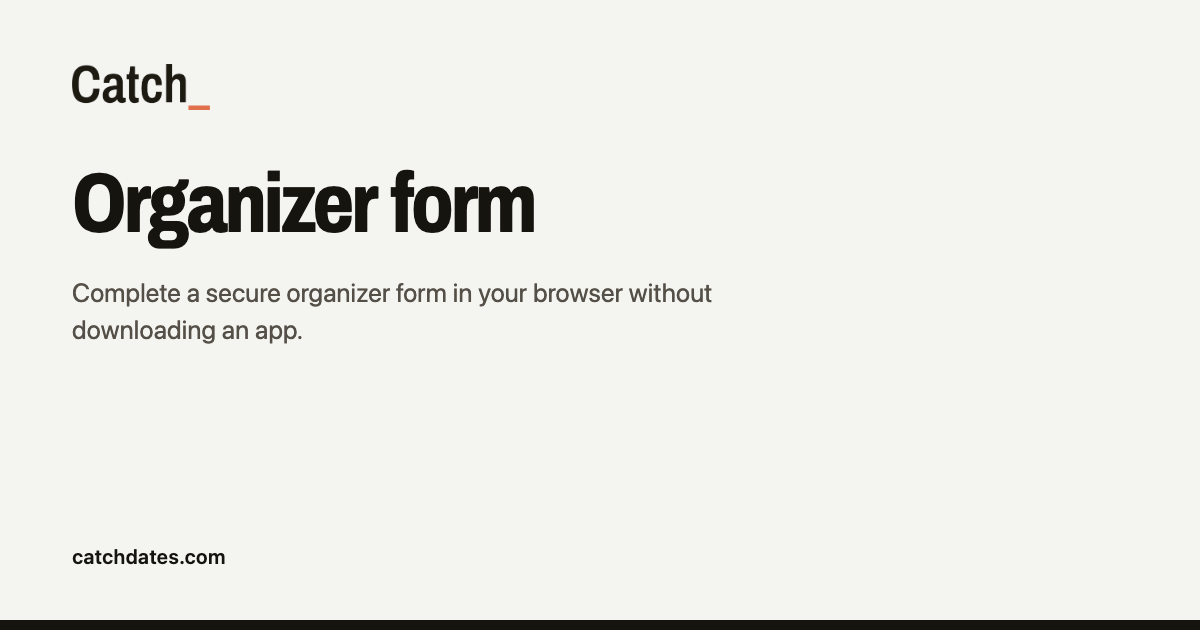
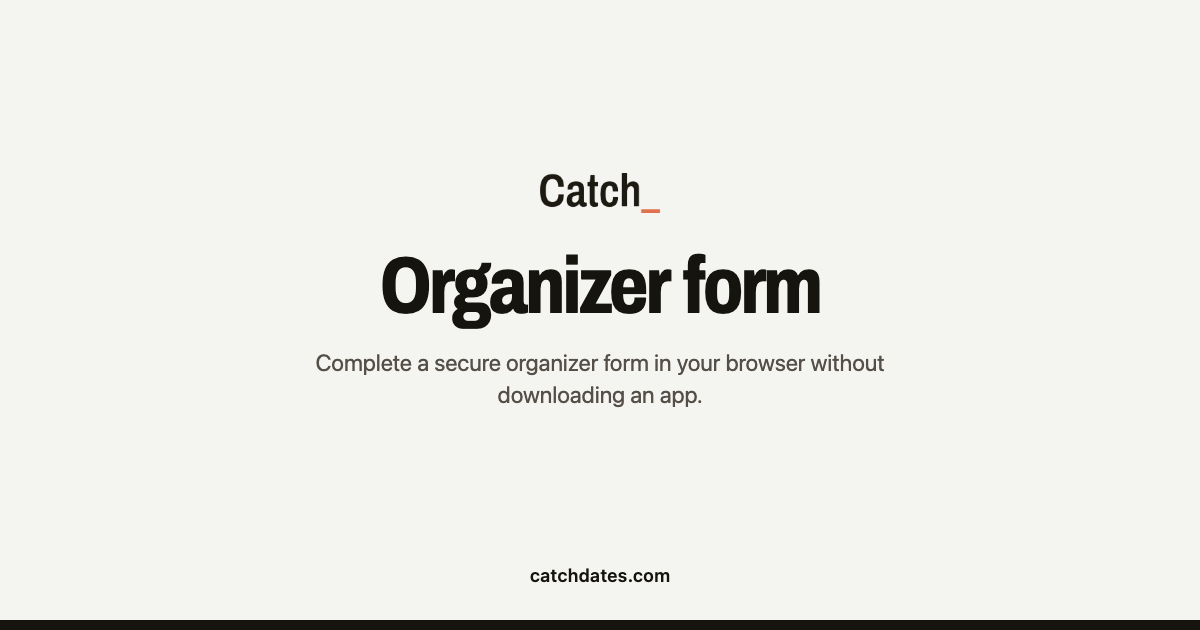
fix(website): keep every static link-preview card inside the centre square
WhatsApp crops small link previews to the centre square, which cut the
left-aligned headline of every static card. The words, wordmark and app
capture now sit in the middle 630px, centred for copy-only cards and side by
side with the capture for the Host cards.

diff --git a/docs/marketing_app_media_pipeline.md b/docs/marketing_app_media_pipeline.md
@@ -147,7 +147,9 @@ review/export remains available below. Never manually stamp old PNGs.
 `og:image` cards in `website/public/assets/og/` with Playwright from the site's
 own Archivo font, light colour tokens, the Catch and Catch Host splash marks,
 page copy from `website/src/content/meta.json` and, for the Host cards, an app
-capture from this pipeline. The home card lists the event formats from
+capture from this pipeline. Every card keeps its words and capture inside the
+centre 630px square, because WhatsApp crops small previews to it. The home
+card lists the event formats from
 `src/content/consumerHome.ts` instead of a capture. It writes
 `website/src/content/previewCards.json` with each card's path, alt text and
 input hash. `src/server/previewCards.ts` maps `/` and `/explore/` to the home
